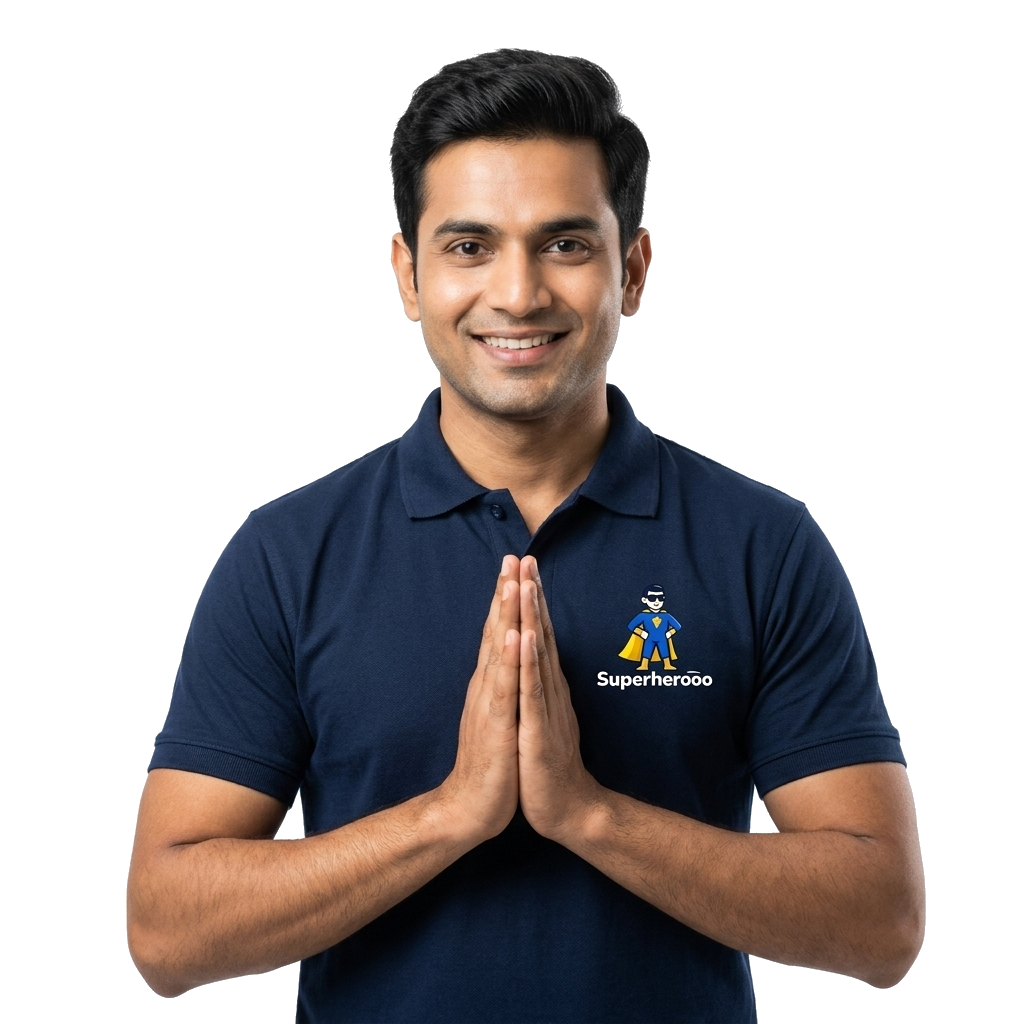
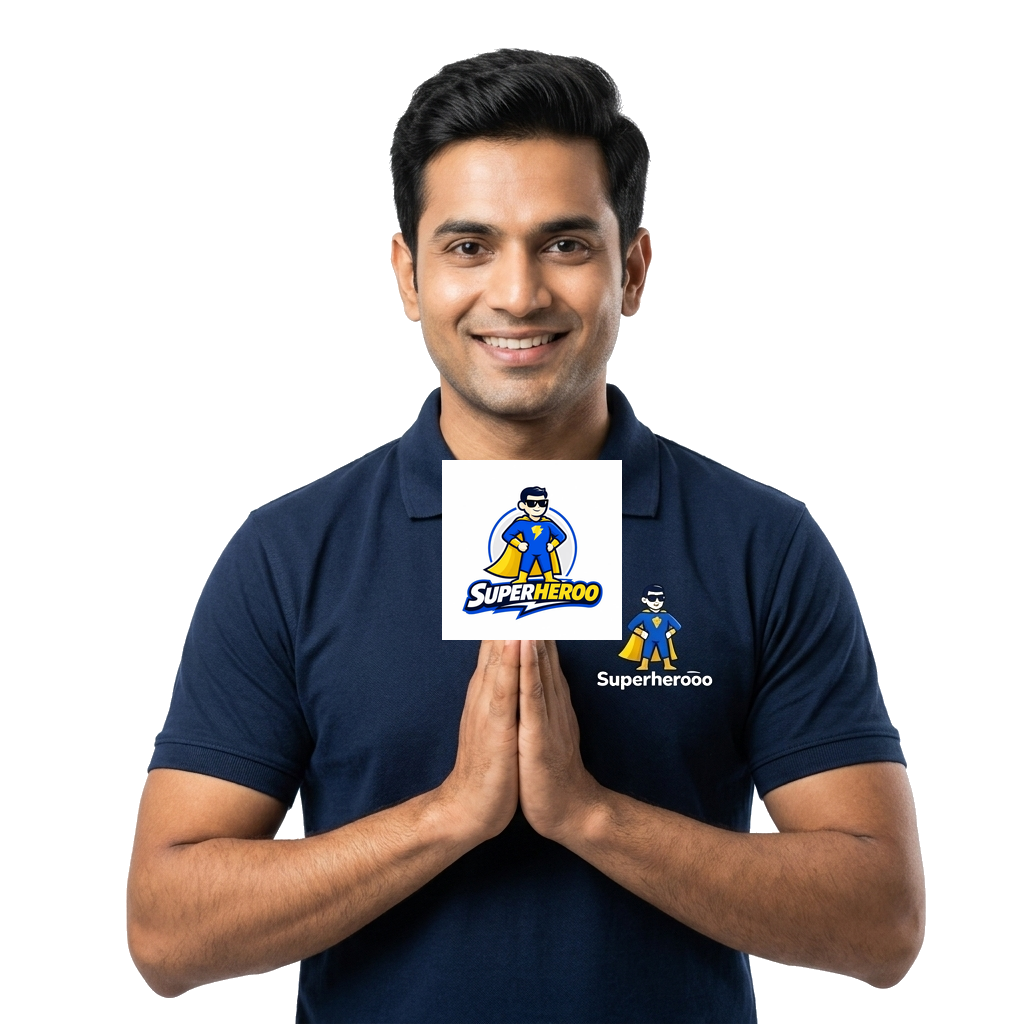
fix: updated UI based on feedback, switch API to HTTPS, enforce mobile uniqueness per role

Changed region(s): [[0.4062, 0.4375, 0.625, 0.625]]

diff --git a/index.html b/index.html
@@ -13,7 +13,10 @@
   <header class="header">
     <div class="wrap">
       <div class="header__inner">
-        <a href="#" class="header__logo"><img src="assets/superlogo.png" alt="SuperHerooo" style="height: 48px;" /><span class="header__brand">Superherooo</span></a>
+        <a href="#" class="header__logo">
+          <img src="assets/superlogo.png" alt="SuperHerooo" style="height: 48px; object-fit: contain;" />
+          <span class="header__brand" style="color: var(--navy); margin-left: 4px; font-size: 1.4rem;">Superherooo</span>
+        </a>
         <nav class="header__nav">
           <a href="#hero" class="active">Home</a>
           <a href="#services">Services</a>
@@ -63,30 +66,6 @@
             <svg xmlns="http://www.w3.org/2000/svg" width="24" height="24" viewBox="0 0 24 24" fill="currentColor"><path d="M3.609 1.814L13.792 12 3.61 22.186a.996.996 0 01-.61-.92V2.734a1 1 0 01.609-.92zm10.89 10.893l2.302 2.302-10.937 6.333 8.635-8.635zm3.199-3.198l2.807 1.626a1 1 0 010 1.73l-2.808 1.626L15.206 12l2.492-2.491zM5.864 2.658L16.8 8.99l-2.302 2.302-8.634-8.634z"/></svg>
             <div class="cta__btn-text"><small>Get it on</small><strong>Google Play</strong></div>
           </a>
-        </div>
-      </div>
-    </div>
-  </section>
-
-  <!-- 3. SERVICES DIRECTORY -->
-  <section class="services" id="services" style="padding: 100px 0; background: var(--light-gray);">
-    <div class="wrap">
-      <h2 style="text-align:center; color:var(--navy); margin-bottom: 40px; font-size: 2.5rem;">Our Premium Services</h2>
-      <div style="display: grid; grid-template-columns: repeat(auto-fill, minmax(280px, 1fr)); gap: 32px;">
-        <div style="background: var(--white); padding: 40px; border-radius: var(--radius-lg); box-shadow: var(--shadow-sm); text-align: center;">
-          <div style="font-size: 3rem; margin-bottom: 16px;">⚡</div>
-          <h3 style="margin-bottom: 8px;">Electricians</h3>
-          <p style="color:var(--text-muted); font-size:0.95rem;">Wiring, installations, and repairs.</p>
-        </div>
-        <div style="background: var(--white); padding: 40px; border-radius: var(--radius-lg); box-shadow: var(--shadow-sm); text-align: center;">
-          <div style="font-size: 3rem; margin-bottom: 16px;">🧹</div>
-          <h3 style="margin-bottom: 8px;">Cleaning</h3>
-          <p style="color:var(--text-muted); font-size:0.95rem;">Deep sanitization and regular upkeep.</p>
-        </div>
-        <div style="background: var(--white); padding: 40px; border-radius: var(--radius-lg); box-shadow: var(--shadow-sm); text-align: center;">
-          <div style="font-size: 3rem; margin-bottom: 16px;">🔧</div>
-          <h3 style="margin-bottom: 8px;">Plumbing</h3>
-          <p style="color:var(--text-muted); font-size:0.95rem;">Leak fixes, pipe installations, and more.</p>
         </div>
       </div>
     </div>
@@ -211,7 +190,6 @@
           <div class="benefit-card bc-academy">
             <h3>Skill Enhancement Academy</h3>
             <p>Access free professional certification courses and soft-skills training to increase your hourly rates and customer ratings.</p>
-            <a href="services.html" class="bc-link">Explore Courses</a>
           </div>
         </div>
       </div>
@@ -426,10 +404,16 @@
         <div>
           <a href="#" class="footer__logo"><img src="assets/superlogo.png" alt="SuperHerooo" style="height: 48px; margin-bottom: 16px;" /></a>
           <p class="footer__desc">Elevating the lives of our service heroes and bringing peace of mind to millions of Indian homes since 2018.</p>
-          <div class="footer__social">
-            <a href="https://www.facebook.com/profile.php?id=61585019523069" target="_blank" aria-label="Facebook">Fb</a>
-            <a href="https://x.com/superherooo2026" target="_blank" aria-label="Twitter">Tw</a>
-            <a href="https://www.linkedin.com/company/112068924/" target="_blank" aria-label="LinkedIn">In</a>
+          <div class="footer__social" style="display: flex; gap: 16px;">
+            <a href="https://www.facebook.com/profile.php?id=61585019523069" target="_blank" aria-label="Facebook">
+              <svg width="24" height="24" viewBox="0 0 24 24" fill="currentColor"><path d="M22 12c0-5.52-4.48-10-10-10S2 6.48 2 12c0 4.84 3.44 8.87 8 9.8V15H8v-3h2V9.5C10 7.57 11.57 6 13.5 6H16v3h-2c-.55 0-1 .45-1 1v2h3v3h-3v6.95c5.05-.5 9-4.76 9-9.95z"/></svg>
+            </a>
+            <a href="https://x.com/superherooo2026" target="_blank" aria-label="Twitter">
+              <svg width="24" height="24" viewBox="0 0 24 24" fill="currentColor"><path d="M22.46 6c-.77.35-1.6.58-2.46.69.88-.53 1.56-1.37 1.88-2.38-.83.5-1.75.85-2.72 1.05C18.37 4.5 17.26 4 16 4c-2.35 0-4.27 1.92-4.27 4.29 0 .34.04.67.11.98C8.28 9.09 5.11 7.38 3 4.79c-.37.63-.58 1.37-.58 2.15 0 1.49.75 2.81 1.91 3.56-.71 0-1.37-.2-1.95-.5v.03c0 2.08 1.48 3.82 3.44 4.21a4.22 4.22 0 0 1-1.93.07 4.28 4.28 0 0 0 4 2.98 8.52 8.52 0 0 1-5.33 1.84c-.34 0-.68-.02-1.02-.06C3.44 20.29 5.7 21 8.12 21 16 21 20.33 14.46 20.33 8.79c0-.19 0-.37-.01-.56.84-.6 1.56-1.36 2.14-2.23z"/></svg>
+            </a>
+            <a href="https://www.linkedin.com/company/112068924/" target="_blank" aria-label="LinkedIn">
+              <svg width="24" height="24" viewBox="0 0 24 24" fill="currentColor"><path d="M19 3a2 2 0 0 1 2 2v14a2 2 0 0 1-2 2H5a2 2 0 0 1-2-2V5a2 2 0 0 1 2-2h14m-.5 15.5v-5.3a3.26 3.26 0 0 0-3.16-3.66c-1.02 0-1.5.56-1.75.96v-.83h-3.13c.04.88 0 8.83 0 8.83h3.13v-4.93c0-.26.02-.52.1-.7.2-.53.68-1.07 1.48-1.07 1.04 0 1.46.8 1.46 1.96v4.74h3.13M5.33 8.16h3.14V18.5H5.33V8.16M6.9 6.84c1.1 0 1.78-.72 1.78-1.63 0-.92-.66-1.63-1.74-1.63C5.84 3.58 5.2 4.3 5.2 5.21c0 .9.62 1.63 1.68 1.63z"/></svg>
+            </a>
           </div>
         </div>
         <div>

diff --git a/become-a-hero.html b/become-a-hero.html
@@ -33,8 +33,8 @@
     <div class="wrap">
       <div class="header__inner">
         <a href="index.html" class="header__logo">
-          <img src="assets/superlogo.png" alt="SuperHerooo" style="height:44px;" />
-          <span class="header__brand">Superherooo</span>
+          <img src="assets/superlogo.png" alt="SuperHerooo" style="height:44px; object-fit: contain;" />
+          <span class="header__brand" style="color: var(--navy); margin-left: 4px; font-size: 1.4rem;">Superherooo</span>
         </a>
         <nav class="header__nav">
           <a href="index.html">Home</a>
@@ -237,10 +237,16 @@
         <div>
           <a href="index.html" class="footer__logo"><img src="assets/superlogo.png" alt="SuperHerooo" style="height:48px; margin-bottom:16px;" /></a>
           <p class="footer__desc">Elevating the lives of our service heroes and bringing peace of mind to millions of Indian homes since 2018.</p>
-          <div class="footer__social">
-            <a href="https://www.facebook.com/profile.php?id=61585019523069" target="_blank">Fb</a>
-            <a href="https://x.com/superherooo2026" target="_blank">Tw</a>
-            <a href="https://www.linkedin.com/company/112068924/" target="_blank">In</a>
+          <div class="footer__social" style="display: flex; gap: 16px;">
+            <a href="https://www.facebook.com/profile.php?id=61585019523069" target="_blank" aria-label="Facebook">
+              <svg width="24" height="24" viewBox="0 0 24 24" fill="currentColor"><path d="M22 12c0-5.52-4.48-10-10-10S2 6.48 2 12c0 4.84 3.44 8.87 8 9.8V15H8v-3h2V9.5C10 7.57 11.57 6 13.5 6H16v3h-2c-.55 0-1 .45-1 1v2h3v3h-3v6.95c5.05-.5 9-4.76 9-9.95z"/></svg>
+            </a>
+            <a href="https://x.com/superherooo2026" target="_blank" aria-label="Twitter">
+              <svg width="24" height="24" viewBox="0 0 24 24" fill="currentColor"><path d="M22.46 6c-.77.35-1.6.58-2.46.69.88-.53 1.56-1.37 1.88-2.38-.83.5-1.75.85-2.72 1.05C18.37 4.5 17.26 4 16 4c-2.35 0-4.27 1.92-4.27 4.29 0 .34.04.67.11.98C8.28 9.09 5.11 7.38 3 4.79c-.37.63-.58 1.37-.58 2.15 0 1.49.75 2.81 1.91 3.56-.71 0-1.37-.2-1.95-.5v.03c0 2.08 1.48 3.82 3.44 4.21a4.22 4.22 0 0 1-1.93.07 4.28 4.28 0 0 0 4 2.98 8.52 8.52 0 0 1-5.33 1.84c-.34 0-.68-.02-1.02-.06C3.44 20.29 5.7 21 8.12 21 16 21 20.33 14.46 20.33 8.79c0-.19 0-.37-.01-.56.84-.6 1.56-1.36 2.14-2.23z"/></svg>
+            </a>
+            <a href="https://www.linkedin.com/company/112068924/" target="_blank" aria-label="LinkedIn">
+              <svg width="24" height="24" viewBox="0 0 24 24" fill="currentColor"><path d="M19 3a2 2 0 0 1 2 2v14a2 2 0 0 1-2 2H5a2 2 0 0 1-2-2V5a2 2 0 0 1 2-2h14m-.5 15.5v-5.3a3.26 3.26 0 0 0-3.16-3.66c-1.02 0-1.5.56-1.75.96v-.83h-3.13c.04.88 0 8.83 0 8.83h3.13v-4.93c0-.26.02-.52.1-.7.2-.53.68-1.07 1.48-1.07 1.04 0 1.46.8 1.46 1.96v4.74h3.13M5.33 8.16h3.14V18.5H5.33V8.16M6.9 6.84c1.1 0 1.78-.72 1.78-1.63 0-.92-.66-1.63-1.74-1.63C5.84 3.58 5.2 4.3 5.2 5.21c0 .9.62 1.63 1.68 1.63z"/></svg>
+            </a>
           </div>
         </div>
         <div>
@@ -265,7 +271,7 @@
   </footer>
 
   <script>
-    const API_BASE = 'http://142.93.208.120:3001/api';
+    const API_BASE = 'https://142-93-208-120.sslip.io/api';
 
     function showMsg(type, text) {
       const el = document.getElementById('responseMsg');

diff --git a/login.html b/login.html
@@ -31,8 +31,8 @@
     <div class="wrap">
       <div class="header__inner">
         <a href="index.html" class="header__logo">
-          <img src="assets/superlogo.png" alt="SuperHerooo" style="height:44px;" />
-          <span class="header__brand">Superherooo</span>
+          <img src="assets/superlogo.png" alt="SuperHerooo" style="height:44px; object-fit: contain;" />
+          <span class="header__brand" style="color: var(--navy); margin-left: 4px; font-size: 1.4rem;">Superherooo</span>
         </a>
         <nav class="header__nav">
           <a href="index.html">Home</a>
@@ -117,10 +117,16 @@
         <div>
           <a href="index.html" class="footer__logo"><img src="assets/superlogo.png" alt="SuperHerooo" style="height:48px; margin-bottom:16px;" /></a>
           <p class="footer__desc">Elevating the lives of our service heroes and bringing peace of mind to millions of Indian homes since 2018.</p>
-          <div class="footer__social">
-            <a href="https://www.facebook.com/profile.php?id=61585019523069" target="_blank">Fb</a>
-            <a href="https://x.com/superherooo2026" target="_blank">Tw</a>
-            <a href="https://www.linkedin.com/company/112068924/" target="_blank">In</a>
+          <div class="footer__social" style="display: flex; gap: 16px;">
+            <a href="https://www.facebook.com/profile.php?id=61585019523069" target="_blank" aria-label="Facebook">
+              <svg width="24" height="24" viewBox="0 0 24 24" fill="currentColor"><path d="M22 12c0-5.52-4.48-10-10-10S2 6.48 2 12c0 4.84 3.44 8.87 8 9.8V15H8v-3h2V9.5C10 7.57 11.57 6 13.5 6H16v3h-2c-.55 0-1 .45-1 1v2h3v3h-3v6.95c5.05-.5 9-4.76 9-9.95z"/></svg>
+            </a>
+            <a href="https://x.com/superherooo2026" target="_blank" aria-label="Twitter">
+              <svg width="24" height="24" viewBox="0 0 24 24" fill="currentColor"><path d="M22.46 6c-.77.35-1.6.58-2.46.69.88-.53 1.56-1.37 1.88-2.38-.83.5-1.75.85-2.72 1.05C18.37 4.5 17.26 4 16 4c-2.35 0-4.27 1.92-4.27 4.29 0 .34.04.67.11.98C8.28 9.09 5.11 7.38 3 4.79c-.37.63-.58 1.37-.58 2.15 0 1.49.75 2.81 1.91 3.56-.71 0-1.37-.2-1.95-.5v.03c0 2.08 1.48 3.82 3.44 4.21a4.22 4.22 0 0 1-1.93.07 4.28 4.28 0 0 0 4 2.98 8.52 8.52 0 0 1-5.33 1.84c-.34 0-.68-.02-1.02-.06C3.44 20.29 5.7 21 8.12 21 16 21 20.33 14.46 20.33 8.79c0-.19 0-.37-.01-.56.84-.6 1.56-1.36 2.14-2.23z"/></svg>
+            </a>
+            <a href="https://www.linkedin.com/company/112068924/" target="_blank" aria-label="LinkedIn">
+              <svg width="24" height="24" viewBox="0 0 24 24" fill="currentColor"><path d="M19 3a2 2 0 0 1 2 2v14a2 2 0 0 1-2 2H5a2 2 0 0 1-2-2V5a2 2 0 0 1 2-2h14m-.5 15.5v-5.3a3.26 3.26 0 0 0-3.16-3.66c-1.02 0-1.5.56-1.75.96v-.83h-3.13c.04.88 0 8.83 0 8.83h3.13v-4.93c0-.26.02-.52.1-.7.2-.53.68-1.07 1.48-1.07 1.04 0 1.46.8 1.46 1.96v4.74h3.13M5.33 8.16h3.14V18.5H5.33V8.16M6.9 6.84c1.1 0 1.78-.72 1.78-1.63 0-.92-.66-1.63-1.74-1.63C5.84 3.58 5.2 4.3 5.2 5.21c0 .9.62 1.63 1.68 1.63z"/></svg>
+            </a>
           </div>
         </div>
         <div>
@@ -145,7 +151,7 @@
   </footer>
 
   <script>
-    const API_BASE = 'http://142.93.208.120:3001/api';
+    const API_BASE = 'https://142-93-208-120.sslip.io/api';
 
     function switchTab(tab) {
       const isLogin = tab === 'login';

diff --git a/backend/routes/auth.js b/backend/routes/auth.js
@@ -42,10 +42,11 @@ router.post('/signup', signupRules, async (req, res) => {
   const { full_name, email, mobile, password } = req.body;
 
   try {
-    // Check for existing user
+    // Check for existing user with same role
     const { data: existing } = await supabase
       .from('users')
       .select('id')
+      .eq('role', 'customer')
       .or(`email.eq.${email},mobile.eq.${mobile}`)
       .maybeSingle();
 

diff --git a/backend/routes/hero.js b/backend/routes/hero.js
@@ -46,6 +46,7 @@ router.post('/apply', heroRules, async (req, res) => {
     const { data: existing } = await supabase
       .from('users')
       .select('id')
+      .eq('role', 'professional')
       .or(`email.eq.${email},mobile.eq.${mobile}`)
       .maybeSingle();
 

diff --git a/update_logo.py b/update_logo.py
@@ -1,0 +1,33 @@
+from PIL import Image
+
+def composite_logo():
+    try:
+        # Load the hero image
+        hero = Image.open('assets/hero-namaste-transparent.png').convert('RGBA')
+        # Load the clean logo
+        logo = Image.open('assets/superlogo.png').convert('RGBA')
+        
+        # Resize logo to fit nicely on the chest (approx 180px wide)
+        logo_width = 180
+        aspect = logo.height / logo.width
+        logo = logo.resize((logo_width, int(logo_width * aspect)), Image.Resampling.LANCZOS)
+        
+        # We need to position it on the chest.
+        # Let's say center horizontally, and around 40% down vertically.
+        # Since it's a specific image, we can just guess the coordinates:
+        x = int((hero.width - logo.width) / 2) + 20 # offset a bit
+        y = int(hero.height * 0.45)
+        
+        # Create a new blank layer the size of the hero image
+        layer = Image.new('RGBA', hero.size, (0, 0, 0, 0))
+        layer.paste(logo, (x, y))
+        
+        # Composite
+        final = Image.alpha_composite(hero, layer)
+        final.save('assets/hero-namaste-transparent.png')
+        print("Logo composited successfully!")
+    except Exception as e:
+        print("Error:", e)
+
+if __name__ == '__main__':
+    composite_logo()
